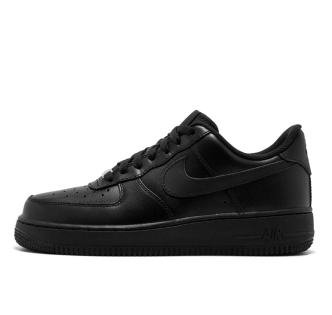
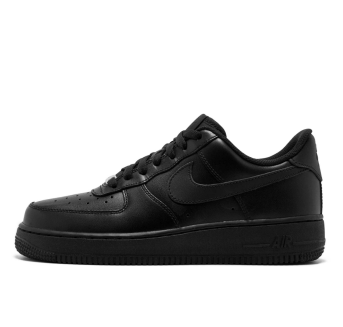
Add files via upload

diff --git a/btn6.html b/btn6.html
@@ -14,8 +14,8 @@
 		<div class="inner">
 			
 			<div class="item">
-				<img src="bigicon8.png" alt="Burger" class="img">
-				<p>Adidas Niteball Green                3500P</p>
+				<img src="bigicon6.png" alt="Burger" class="img">
+				<p>Nike Air Max Alpha Savage                3500P</p>
 				
 				
 			</div>			
@@ -37,7 +37,7 @@
 
 
 	<script src="https://telegram.org/js/telegram-web-app.js"></script>
-	<script src="buyp8.js"></script>
+	<script src="buyp6.js"></script>
 </body>
 
 </html>

diff --git a/btn3.html b/btn3.html
@@ -14,8 +14,8 @@
 		<div class="inner">
 			
 			<div class="item">
-				<img src="bigicon8.png" alt="Burger" class="img">
-				<p>Adidas Niteball Green                3500P</p>
+				<img src="bigicon3.png" alt="Burger" class="img">
+				<p>Nike Air Jordan 11                3500P</p>
 				
 				
 			</div>			
@@ -37,7 +37,7 @@
 
 
 	<script src="https://telegram.org/js/telegram-web-app.js"></script>
-	<script src="buyp8.js"></script>
+	<script src="buyp3.js"></script>
 </body>
 
 </html>

diff --git a/btn12.html b/btn12.html
@@ -14,8 +14,8 @@
 		<div class="inner">
 			
 			<div class="item">
-				<img src="bigicon8.png" alt="Burger" class="img">
-				<p>Adidas Niteball Green                3500P</p>
+				<img src="bigicon12.png" alt="Burger" class="img">
+				<p>Nike Dunk Low                3500P</p>
 				
 				
 			</div>			
@@ -37,7 +37,7 @@
 
 
 	<script src="https://telegram.org/js/telegram-web-app.js"></script>
-	<script src="buyp8.js"></script>
+	<script src="buyp12.js"></script>
 </body>
 
 </html>

diff --git a/btn10.html b/btn10.html
@@ -14,7 +14,7 @@
 		<div class="inner">
 			
 			<div class="item">
-				<img src="bigicon1.png" alt="Burger" class="img">
+				<img src="bigicon10.png" alt="Burger" class="img">
 				<p>Nike Air Jordan 11                3500P</p>
 				
 				
@@ -37,7 +37,7 @@
 
 
 	<script src="https://telegram.org/js/telegram-web-app.js"></script>
-	<script src="buyp5.js"></script>
+	<script src="buyp10.js"></script>
 </body>
 
 </html>

diff --git a/app.js b/app.js
@@ -32,15 +32,7 @@ btn1.addEventListener("click", function(){
 
 
 btn2.addEventListener("click", function(){
-	if (tg.MainButton.isVisible) {
-		tg.MainButton.hide();
-		
-	}
-	else {
-		tg.MainButton.setText("Товар был добавлен в коризну!");
-		item = "2";
-		tg.MainButton.show();
-	}
+	window.location.href = 'btn2.html';
 });
 
 btn3.addEventListener("click", function(){

diff --git a/btn11.html b/btn11.html
@@ -15,7 +15,7 @@
 			
 			<div class="item">
 				<img src="bigicon11.png" alt="Burger" class="img">
-				<p>Nike Air Jordan 11                3500P</p>
+				<p>Nike Air Force Low BLACK                3500P</p>
 				
 				
 			</div>			

diff --git a/btn5.html b/btn5.html
@@ -15,7 +15,7 @@
 			
 			<div class="item">
 				<img src="bigicon1.png" alt="Burger" class="img">
-				<p>Nike Air Jordan 4                3500P</p>
+				<p>Nike Air Jordan 11                3500P</p>
 				
 				
 			</div>			

diff --git a/btn7.html b/btn7.html
@@ -14,7 +14,7 @@
 		<div class="inner">
 			
 			<div class="item">
-				<img src="bigicon1.png" alt="Burger" class="img">
+				<img src="bigicon7.png" alt="Burger" class="img">
 				<p>Air Jordan retro low OG Voodoo                3500P</p>
 				
 				

diff --git a/btn2.html b/btn2.html
@@ -14,7 +14,7 @@
 		<div class="inner">
 			
 			<div class="item">
-				<img src="bigicon1.png" alt="Burger" class="img">
+				<img src="bigiconf.png" alt="Burger" class="img">
 				<p>Nike Air Force 1 LOW WHITE                3500P</p>
 				
 				

diff --git a/btn1.html b/btn1.html
@@ -14,7 +14,7 @@
 		<div class="inner">
 			
 			<div class="item">
-				<img src="2.png" alt="Burger" class="img">
+				<img src="bigicon101.png" alt="Burger" class="img">
 				<p>Adidas Forum exhibit low                 3500P</p>
 				
 				

diff --git a/btn4.html b/btn4.html
@@ -14,7 +14,7 @@
 		<div class="inner">
 			
 			<div class="item">
-				<img src="bigicon1.png" alt="Burger" class="img">
+				<img src="bigicon4.png" alt="Burger" class="img">
 				<p>Nike Air Jordan 11                3500P</p>
 				
 				

diff --git a/btn9.html b/btn9.html
@@ -14,7 +14,7 @@
 		<div class="inner">
 			
 			<div class="item">
-				<img src="bigicon1.png" alt="Burger" class="img">
+				<img src="bigicon9.png" alt="Burger" class="img">
 				<p>Nike Air Jordan 11                3500P</p>
 				
 				
